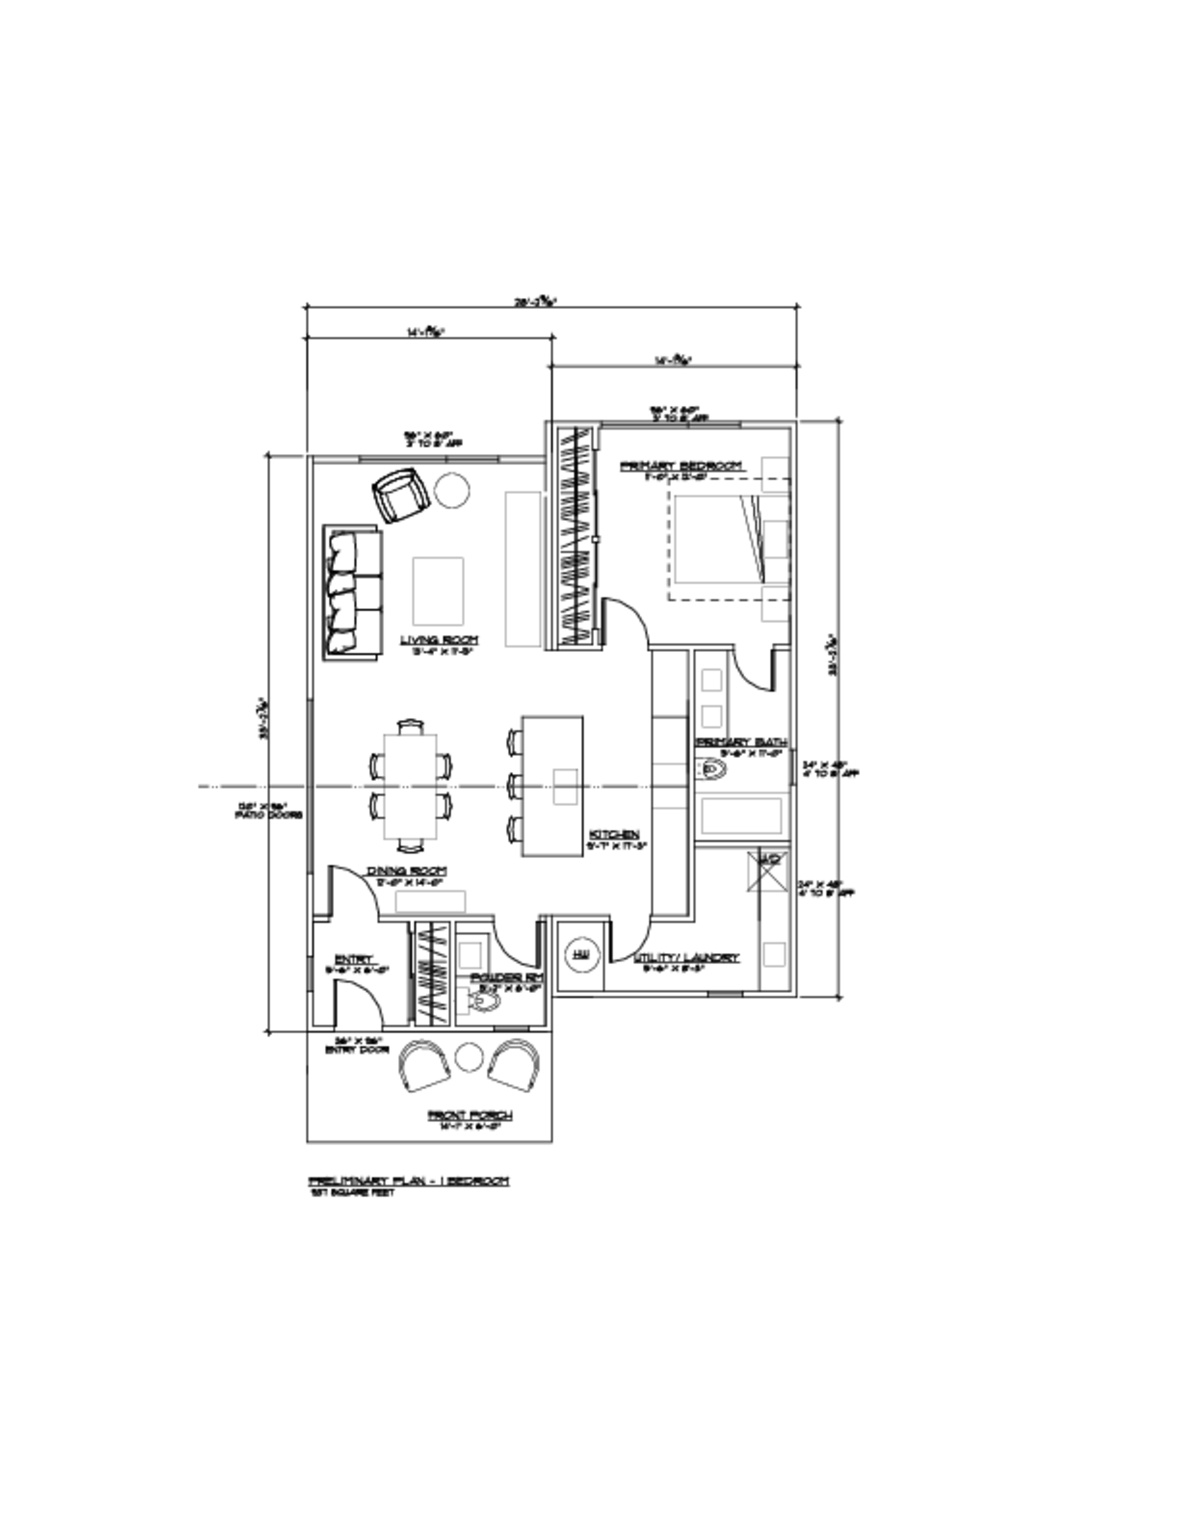
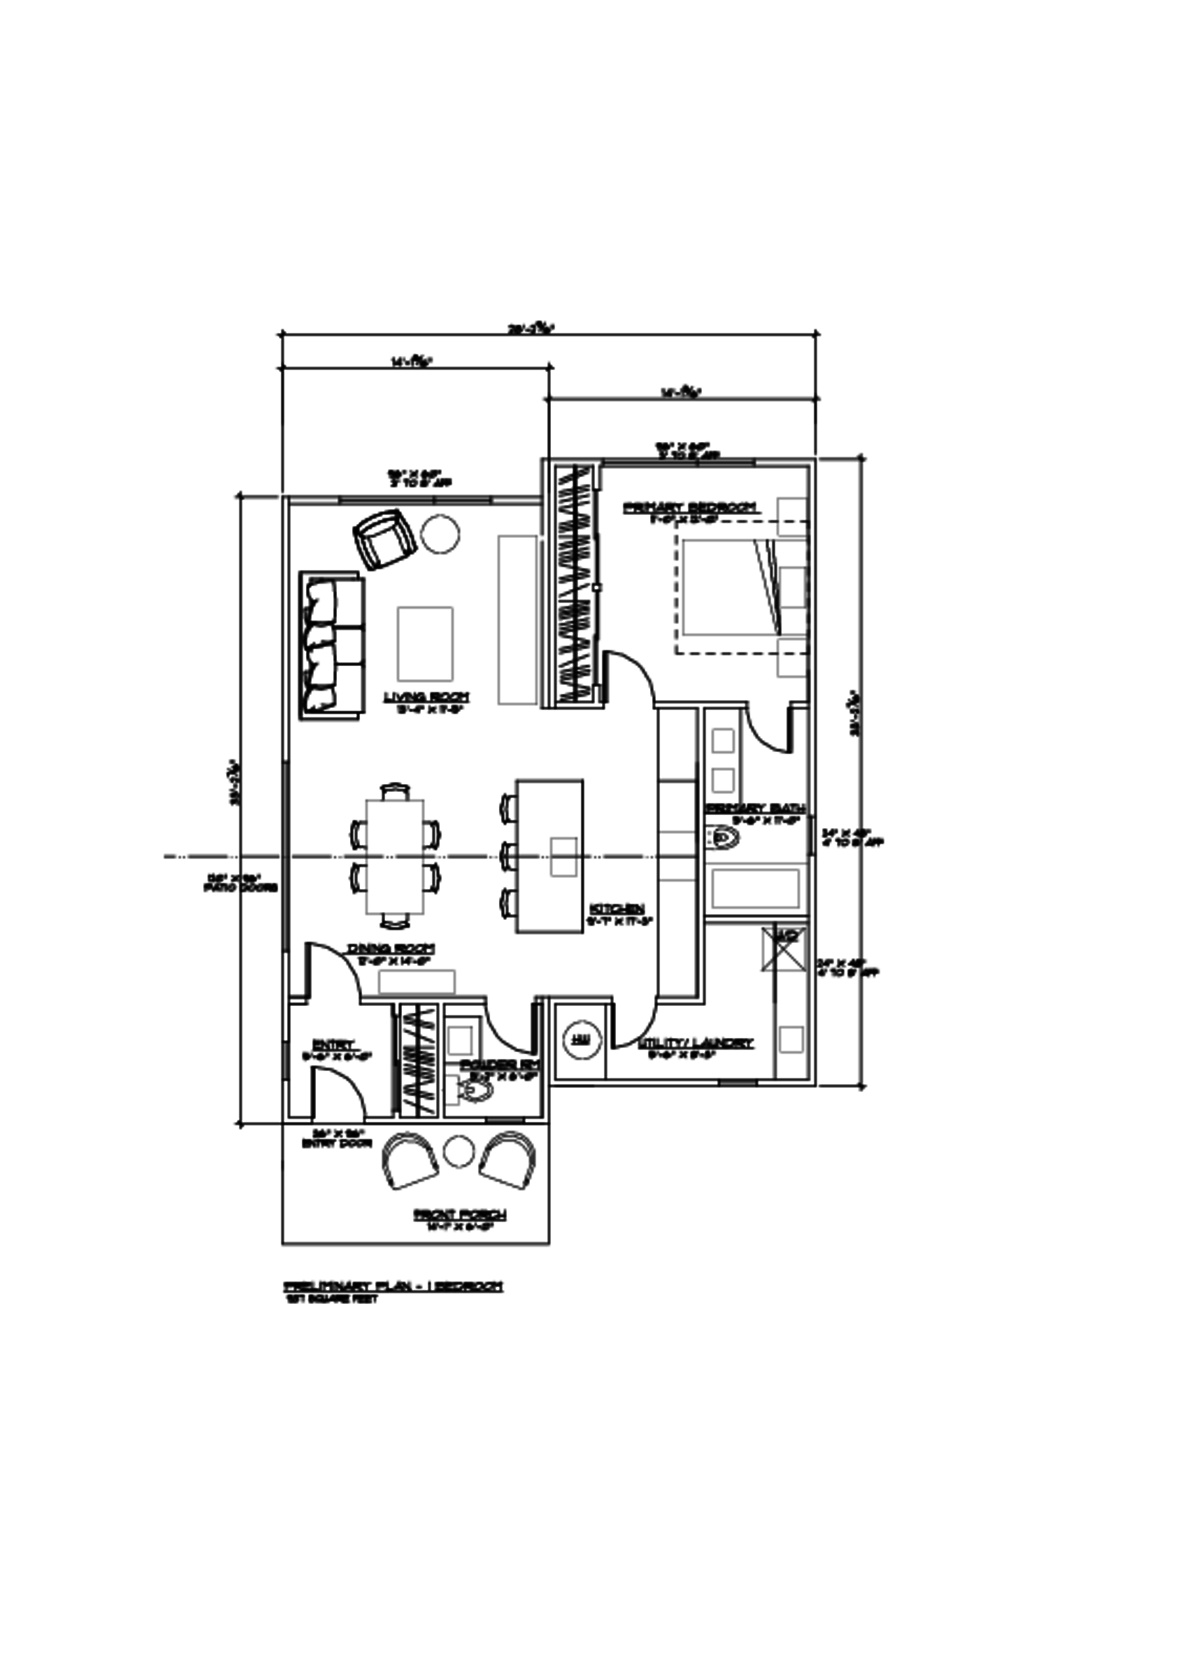
Update floor plan image to ensure consistent display across the platform
Change floor plan image version in `model-1br-compact.tsx` to `v4` to reflect updates.

Replit-Commit-Author: Agent
Replit-Commit-Session-Id: f6f44d86-efbf-48e6-b4a5-fccd2a5d6f23
Replit-Commit-Checkpoint-Type: full_checkpoint
Replit-Commit-Screenshot-Url: https://storage.googleapis.com/screenshot-production-us-central1/abfa8b26-a531-416d-b0bb-23e1978ff137/f6f44d86-efbf-48e6-b4a5-fccd2a5d6f23/qKNfEcu

Changed region(s): [[0.1527, 0.1848, 0.7634, 0.8008]]

diff --git a/client/src/pages/model-1br-compact.tsx b/client/src/pages/model-1br-compact.tsx
@@ -6,7 +6,7 @@ import StickyHeader from "@/components/sticky-header";
 import Footer from "@/components/footer";
 import FloorPlanViewer from "@/components/floor-plan-viewer";
 
-const floorPlanImage = "/attached_assets/1br-compact-floorplan.jpg?v=3";
+const floorPlanImage = "/attached_assets/1br-compact-floorplan.jpg?v=4";
 
 export default function Model1BRCompact() {
   const [location, navigate] = useLocation();
